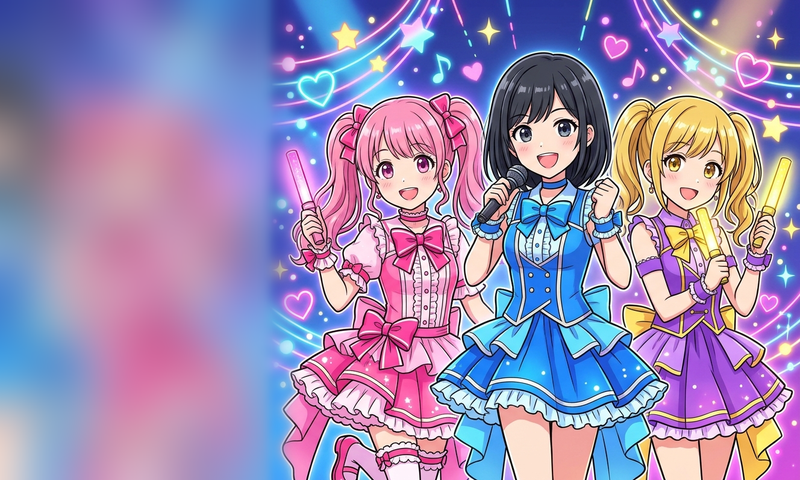
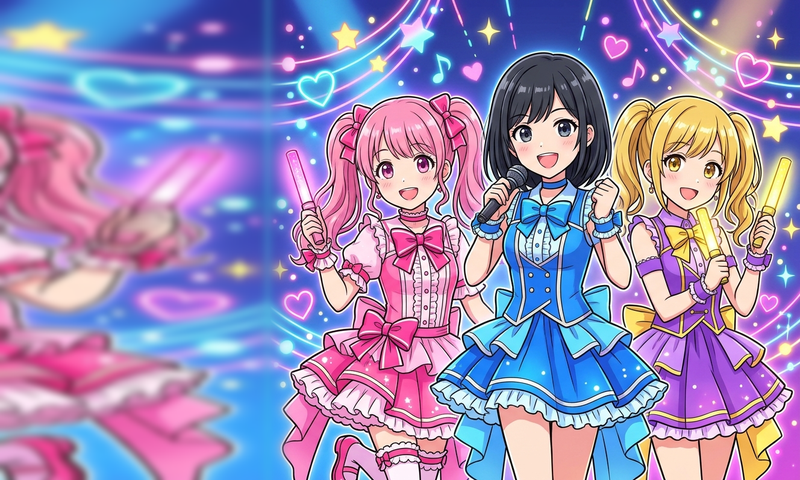
絵を活かす改善：タイトルのポスター、出来事と収支報告のバナー、NEONポスター修正、ライバルアイコン修正
Claude-Session: https://claude.ai/code/session_01UvvqKZSGyUN7C6oBseGgfe

diff --git a/index.html b/index.html
@@ -292,7 +292,7 @@ input[type=range]{width:100%;accent-color:var(--brass);margin:4px 0}
 .marquee i:nth-child(2n){animation-delay:.6s}
 @keyframes blink{50%{opacity:.25}}
 .rivalrow{display:flex;gap:8px;flex-wrap:wrap;justify-content:center}
-.rivalrow span{font-size:12px;border:1px solid var(--line);border-radius:99px;padding:3px 10px;background:rgba(21,12,27,.7)}
+.rivalrow>span{font-size:12px;border:1px solid var(--line);border-radius:99px;padding:3px 10px;background:rgba(21,12,27,.7)}
 
 /* show */
 .stage-scene{position:relative;border-radius:14px;overflow:hidden;background:radial-gradient(ellipse at 50% 0,#3b1f2c,#100812 70%);border:1px solid var(--brass-dim);padding:8px;flex:1;min-height:0;display:flex;align-items:center;justify-content:center}
@@ -372,7 +372,7 @@ details.more summary{cursor:pointer;color:var(--brass-soft);font-size:12px;margi
 .dhead .dart{position:absolute;right:0;top:0;bottom:0;width:46%;z-index:0;opacity:.9;-webkit-mask-image:linear-gradient(90deg,transparent,#000 40%);mask-image:linear-gradient(90deg,transparent,#000 40%)}
 .dhead .dart svg{width:100%;height:100%;display:block}
 .lineup{display:flex;gap:8px;flex-wrap:wrap;justify-content:center}
-.lineup span{width:84px;height:52px;border-radius:8px;overflow:hidden;border:1px solid rgba(255,255,255,.25);box-shadow:0 6px 18px rgba(0,0,0,.5)}
+.lineup span{width:clamp(84px,11vw,150px);aspect-ratio:5/3;transition:transform .2s;border-radius:8px;overflow:hidden;border:1px solid rgba(255,255,255,.25);box-shadow:0 6px 18px rgba(0,0,0,.5)}
 .lineup svg{width:100%;height:100%;display:block}
 .mrow{display:flex;gap:10px;align-items:center;min-width:0}
 .mi{display:inline-flex;vertical-align:middle;margin-right:6px}
@@ -388,7 +388,7 @@ details.more summary{cursor:pointer;color:var(--brass-soft);font-size:12px;margi
 .rk .rbar{height:8px;border-radius:4px;margin-top:4px}
 .rk.me b{color:var(--brass-soft)}
 .meava{display:flex!important;align-items:center;justify-content:center;background:var(--brass)!important;color:#2a1606}
-.rivalrow span{display:inline-flex;align-items:center;gap:6px}
+.rivalrow>span{display:inline-flex;align-items:center;gap:6px}
 .toast small{display:block;color:var(--mute);font-size:12px;margin-top:1px}
 .toast>span{min-width:0}
 .hearts{color:#ff6fa3;letter-spacing:1px}
@@ -602,6 +602,15 @@ button.td:hover:not(:disabled){border-color:var(--brass)}
 .intro{display:grid;grid-template-columns:auto 1fr;gap:18px;align-items:center}.intro .iimg{display:flex;justify-content:center}
 @media (max-width:560px){.intro{grid-template-columns:1fr;text-align:center}.brand.me{display:flex}.brand.me{display:none}}
 .endhero{border-radius:14px;padding:18px 12px}
+.lineup span:nth-child(odd){transform:rotate(-3deg) translateY(4px)}.lineup span:nth-child(even){transform:rotate(2.5deg)}.lineup span:hover{transform:scale(1.12);z-index:2}
+.evban{height:110px;margin:-18px -20px 12px;border-radius:14px 14px 0 0;overflow:hidden;position:relative}
+.evban img,.evban svg{width:100%;height:100%;object-fit:cover;object-position:50% 12%;display:block}
+.evban::after{content:"";position:absolute;inset:0;background:linear-gradient(180deg,transparent 40%,var(--velvet-2))}
+.evban .evicon{position:absolute;left:20px;bottom:6px;z-index:1;margin:0}
+.rban{display:grid;grid-template-columns:1.4fr 1fr;height:84px;border-radius:12px;overflow:hidden;position:relative;border:1px solid var(--brass-dim);flex:none}
+.rban>div{overflow:hidden}.rban img,.rban svg{width:100%;height:100%;object-fit:cover;object-position:50% 12%;display:block}
+.rban .rt{position:absolute;left:0;top:0;bottom:0;display:flex;flex-direction:column;justify-content:center;padding:0 16px;background:linear-gradient(90deg,rgba(16,8,18,.85),rgba(16,8,18,.4) 70%,transparent);width:60%}
+.welcome .wposters{display:flex;gap:6px;justify-content:center;flex-wrap:wrap;opacity:.9}.welcome .wposters span{width:92px;aspect-ratio:5/3;border-radius:8px;overflow:hidden;border:1px solid var(--line)}.welcome .wposters img,.welcome .wposters svg{width:100%;height:100%;object-fit:cover;display:block}
 @media (prefers-reduced-motion:reduce){*{animation:none!important;transition:none!important}}
 </style>
 </head><body>
@@ -1094,7 +1103,7 @@ function hubHTML(){
 function setTab(k){S.mtab=k;SND.click();render();}
 function welcomeHTML(){
   return `<div class="panel welcome">
-    <div class="flameic">${ic('flame','fill')}</div>
+    ${S.projects.length?`<div class="flameic">${ic('flame','fill')}</div>`:`<div class="wposters">${ARTISTS.filter(a=>S.rep>=a.rep).map(a=>`<span>${artistArt(a)}</span>`).join('')}</div>`}
     <h2>${S.projects.length?'公演を選んで宣伝しよう':'最初の公演を企画しよう'}</h2>
     <div class="flow"><span><i>1</i>演者</span><span><i>2</i>会場と日程</span><span><i>3</i>契約と価格</span><span><i>4</i>資金集め</span><span><i>5</i>宣伝</span><span><i>6</i>本番</span></div>
     <p class="lead">公演は${slotsMax()}本まで同時に進められる。関門までに順位を上げないと買収される。何もしない週も固定費は出ていく。</p>
@@ -1456,7 +1465,7 @@ function eventModal(pid,eid){
   const p=proj(pid),ev=EVENTS.find(e=>e.id===eid);if(!p){runQueue();return;}
   curEvent=ev;curPid=pid;const a=A(p.artist);curTitle=`${a.name}：${ev.title}`;
   curChoices=ev.choices(p);
-  showModal(`<div class="evhead">${avatar(a,60)}<div class="evicon" style="color:var(--fire-hot)">${ic(ev.icon,ev.icon==='flame'?'fill':'')}</div></div><div class="eyebrow">${esc(a.name)} 公演 ／ 判断が必要</div><h3>${ev.title}</h3><p class="lead">${ev.text}</p><div class="choices">${choiceBtns()}</div>`);
+  showModal(`<div class="evban">${artistArt(a)}<div class="evicon" style="color:var(--fire-hot)">${ic(ev.icon,ev.icon==='flame'?'fill':'')}</div></div><div class="eyebrow">${esc(a.name)} 公演 ／ 判断が必要</div><h3>${ev.title}</h3><p class="lead">${ev.text}</p><div class="choices">${choiceBtns()}</div>`);
 }
 function seasonModal(w){
   const se=SEASONAL[w];curTitle=se.title;curChoices=se.choices();
@@ -1730,7 +1739,7 @@ function waterfallSVG(R){
 function resultHTML(){
   const R=S.result,a=A(R.artist),v=Vn(R.venue);
   const nextLabel=S.showQueue.length>1?'次の本番へ':(liquid()<0)?'結果を見る':'司令室に戻る';
-  const head=`<div class="phead"><div class="ttl"><span class="eyebrow">収支報告</span><h2>${esc(a.name)} ＠ ${esc(v.name)}</h2></div></div>`;
+  const head=`<div class="rban"><div>${artistArt(a)}</div><div>${venueArt(v)}</div><div class="rt"><span class="eyebrow">収支報告</span><h2>${esc(a.name)} ＠ ${esc(v.name)}</h2></div></div>`;
   if(R.cancelled){
     return head+`<div class="panel" style="text-align:center;padding:24px"><div class="evicon" style="margin:0 auto 8px;color:var(--bad)">${ic(R.cancelled==='artist'?'alert':'storm')}</div>
       <h2 class="bad">公演中止</h2><p class="lead" style="margin-top:6px">${R.cancelled==='artist'?'演者が急病で出演できなくなりました。チケットは全額払い戻し。出演料は返金されました。':'大型台風が直撃し、公演は中止に。チケットは全額払い戻しです。'}</p>
@@ -2219,7 +2228,7 @@ function stageBg(v,R){
   if(HAVE['stage-'+v.id])return sceneBg('stage-'+v.id,.35);
   return IMG?`background-image:linear-gradient(rgba(16,8,18,.72),rgba(16,8,18,.93)),url(${AST}venue-${v.id}.png);background-size:cover;background-position:center`:'';
 }
-function start(data){FX.setup();probeOpt();{const t=new Image();t.onload=()=>{IMG=true;render();};t.src=AST+'coach.png';}if(data&&data.S){S=data.S;migrate();SND.on=S.sound!==false;}render();if(S)resumeFlow();}
+function start(data){FX.setup();probeOpt();{const t=new Image();t.onload=()=>{IMG=true;if(!$('#modal-root').innerHTML)render();};t.src=AST+'coach.png';}if(data&&data.S){S=data.S;migrate();SND.on=S.sound!==false;}render();if(S)resumeFlow();}
 try{window.claude?.hot?.snapshot?.(()=>({S}));}catch(e){}
 window.claude?.hot?.ready?window.claude.hot.ready(start):start(window.claude?.hot?.data??{});
 </script>
